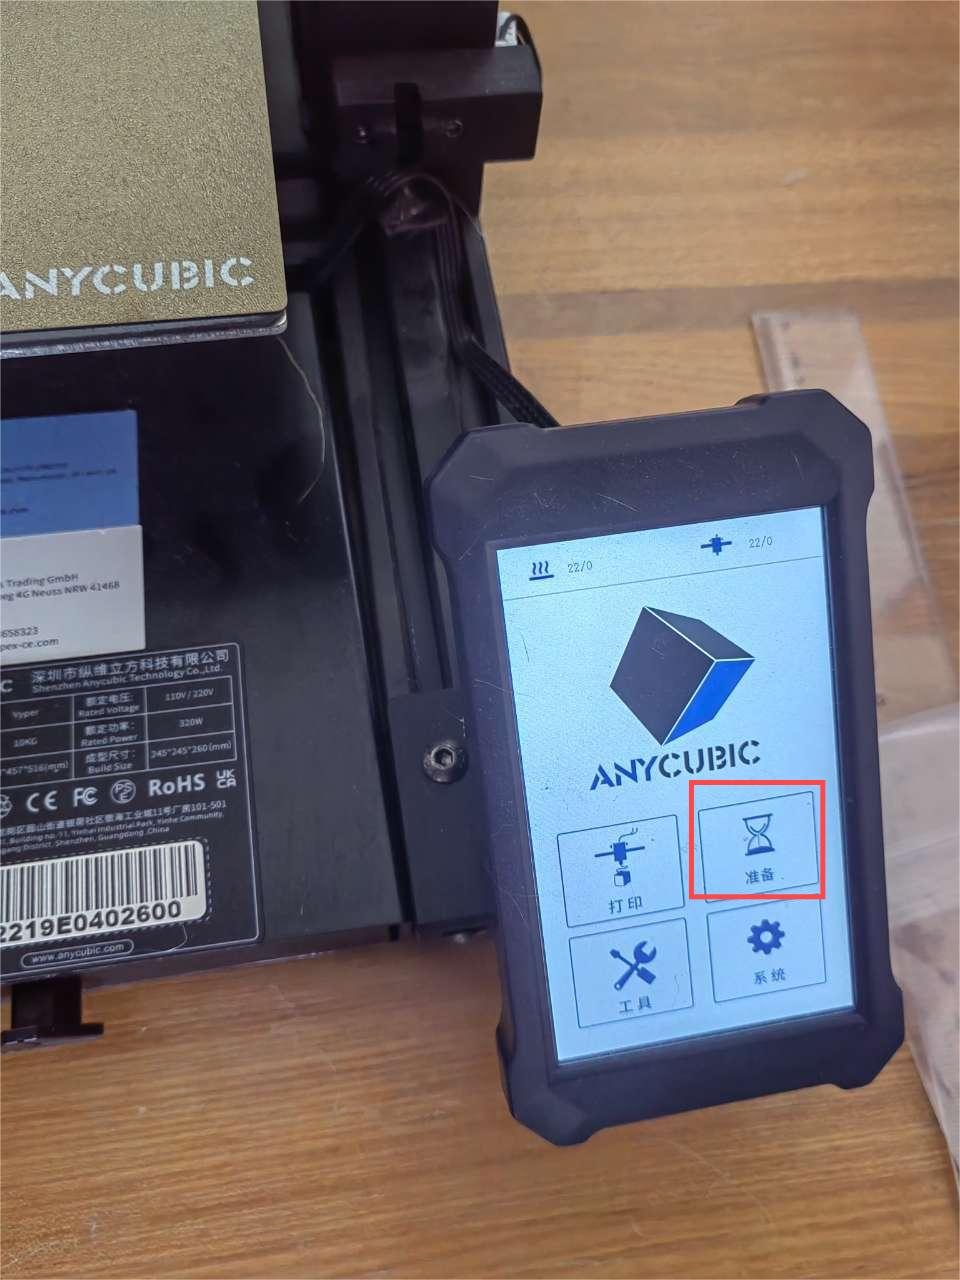
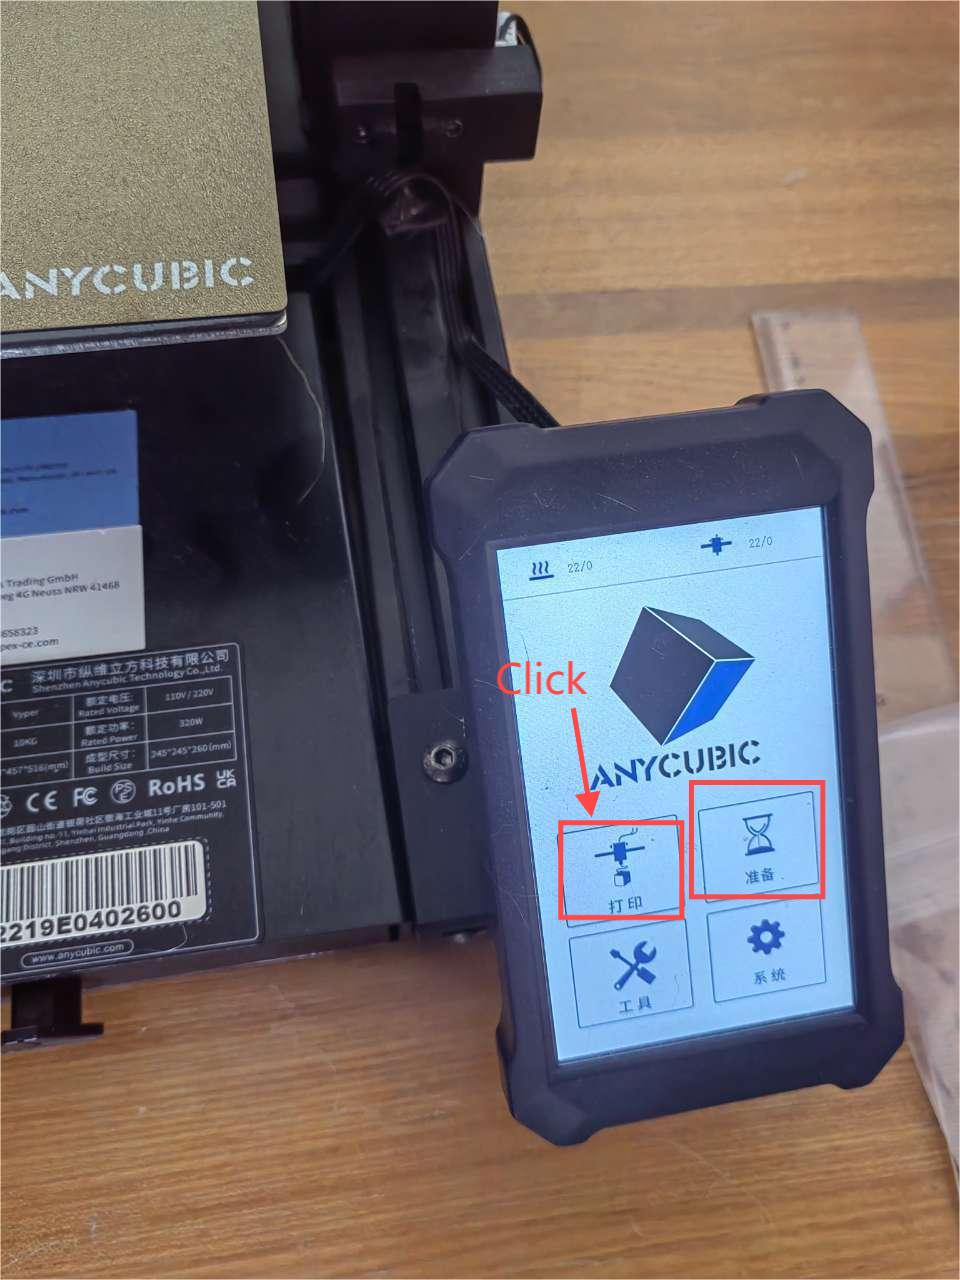
material部分更改

Changed region(s): [[0.5, 0.5, 0.7188, 0.7188]]

diff --git a/dailyhomework/ma/ma.html b/dailyhomework/ma/ma.html
@@ -91,16 +91,28 @@
     <p>Magnesium and its alloys are widely applied in the following areas:</p>
     <p>1-Aerospace: Magnesium alloys are used in the construction of aircraft fuselages, engine 
     <br>parts, and more due to their lightweight and high-strength properties.</p>
+    <p><b>Examples:</b>
+    <br>1. The hull of the spacecraft may require high strength and lightweight, so magnesium and aluminum alloys with 
+    <br>high aluminum content will be selected:
+    <br>Magnesium aluminum alloy (Al-Mg) : In this alloy, the content of magnesium is usually 30% to 45%, the 
+    <br>content of aluminum is 10% to 25%, and the rest is other elements, such as silicon, copper, iron, etc.
+    <br>2. The internal structure of the spacecraft may require high strength and good thermal conductivity, and 
+    <br>magnesium copper alloys with higher copper content will be selected:
+    <br>Magnesium copper alloy (Cu-Mg) : In this alloy, the content of magnesium is 50% to 65%, and the content of 
+    <br>copper is 10% to 25%.</p>
     <img src="./ma-1/ma-1-4.PNG">
-    <p>2-Automotive Industry: Magnesium alloys are used in automotive components such as body 
-    <br>structures, wheels, and engine parts to reduce vehicle weight.</p>
-    <img src="./ma-1/ma-1-5.PNG">
-    <p>3-Consumer Electronics: Magnesium alloys are used in the manufacture of casings for laptops, 
-    <br>mobile phones, and other portable electronic devices because of their lightness and good 
-    <br>heat dissipation properties.</p>
-    <img src="./ma-1/ma-1-6.PNG">
-    <p>4-Medical Devices: Magnesium alloys, due to their biocompatibility and degradability, are used 
+    <p>2-Medical Devices: Magnesium alloys, due to their biocompatibility and degradability, are used 
     <br>in the manufacture of certain medical devices and implants.</p>
+    <p><b>Theory:</b>
+    <b>1. Biocompatibility: </b>Biocompatible magnesium alloys remain chemically stable within the 
+    <br>human body without triggering an immune response and are not absorbed by tissues.
+    <br><b>2. Degradation Mechanism:</b>When biocompatible magnesium alloys reach a certain age or are 
+    <br>subjected to specific stimuli (e.g., X-rays, heat), they undergo chemical reactions and gradual 
+    <br>decomposition into smaller molecules that can be digested by the human body.
+    <br><b>3. Stability:</b>Over time, biocompatible magnesium alloys lose hardness and become softer, allowing 
+    <br>them to dissolve readily through the circulation system and not cause tissue compression.
+    <br><b>4. Regeneration: </b>Once absorbed, biocompatible magnesium alloys can regenerate through the body's 
+    <br>own renewal process, growing into new bones or tissues.</p>
     <img src="./ma-1/ma-1-7.PNG">
 
     <h4>1.4 Advantages</h4>
@@ -160,6 +172,7 @@
     <h4>2.3 Applications</h4>
     <p>1-Mechanical Industry: Used for manufacturing large products that are difficult to injection mold, such as 
     <br>large gears, large valve seats, large worm wheels, and large bushings and bearings .</p>
+
     <img src="./ma-1/ma-1-10.PNG">
     <p>2-Automotive Manufacturing: Used in the production of automotive parts, including gears, bearings, impellers, 
     <br>crankshafts, instrument panels, drive shafts, valves, blades, threaded rods, high-pressure gaskets, screws, 
@@ -410,33 +423,34 @@
 
     <section id="subsection3-2"><h3>3-2 MC nylon</h3>
     <h4>1-Post-processing heat treatment: </h4>
-    <p>nylon is a thermoplastic, after processing can be heat treated, by controlling the temperature and time to adjust its performance, 
-    <br>such as improving strength and wear resistance.</p>
-    <img src="./ma-3/ma-3-5.webp">
+    <p>nylon is a thermoplastic, after processing can be heat treated, by controlling the temperature and time to 
+    <br>adjust its performance, such as improving strength and wear resistance.</p>
+    <img src="./ma-3/ma-3-5.jpg">
     <h4>2-Surface coating: </h4>
-    <p>The surface of nylon can be coated to improve its surface properties, such as increasing wear resistance and chemical erosion 
-    <br>resistance.</p>
+    <p>The surface of nylon can be coated to improve its surface properties, such as increasing wear resistance 
+    <br>and chemical erosion resistance.</p>
     <img src="./ma-3/ma-3-6.webp">
     <h4>3-Reinforcement material filling: </h4>
-    <p>By adding fillers (such as glass fiber, carbon fiber, etc.) to MC nylon, it can enhance its mechanical properties and wear 
-    <br>resistance.</p>
+    <p>By adding fillers (such as glass fiber, carbon fiber, etc.) to MC nylon, it can enhance its mechanical 
+    <br>properties and wear resistance.</p>
     <img src="./ma-3/ma-3-7.jpg">
     <h4>Polishing: </h4>
     <p>Polishing nylon products can improve their appearance and surface quality.</p>
     <img src="./ma-3/ma-3-8.png">
 
     <section id="subsection3-3"><h3>3-3 Wood</h3>
-    <h4>1-Coating protection: </h4>
-    <p>The surface of the wood can be coated to provide an additional layer of protection against moisture erosion, insect damage and 
-    <br>sun exposure.</p>
-    <img src="./ma-3/ma-3-9.jpg">
-    <img src="./ma-3/ma-3-10.jpeg">
-    <h4>2-Dyeing and coloring: </h4>
-    <p>Dyeing and coloring can change the appearance of wood, making it more beautiful, and certain colorants also have a protective effect.</p>
-    <img src="./ma-3/ma-3-11.jpg">
-    <h4>3-Surface treatment: </h4>
+    <h4>1-Surface treatment: </h4>
     <p>The wood can be sanded or polished to make its surface smoother and reduce roughness and burrs.</p>
     <img src="./ma-3/ma-3-12.webp">
+    <h4>2-Coating protection: </h4>
+    <p>The surface of the wood can be coated to provide an additional layer of protection against moisture erosion, 
+    <br>insect damage and sun exposure.</p>
+    <img src="./ma-3/ma-3-9.jpg">
+    <img src="./ma-3/ma-3-10.jpeg">
+    <h4>3-Dyeing and coloring: </h4>
+    <p>Dyeing and coloring can change the appearance of wood, making it more beautiful, and certain colorants also 
+    <br>have a protective effect.</p>
+    <img src="./ma-3/ma-3-11.jpg">
     <h4>4-Anti-corrosion treatment: </h4>
     <p>Anti-corrosion treatment of wood can extend its service life and make it more durable.</p>
     <img src="./ma-3/ma-3-13.webp">
@@ -449,39 +463,41 @@
     <img src="./ma-4/ma-4-1.jpg">
     <h4>Polyester fiber</h4>
     <img src="./ma-4/ma-4-2.jpg">
-    <p>Polyester fiber is a synthetic fiber made from polyethylene terephthalate (PET), made by melt spinning or solution spinning processes.</p>
+    <p>Polyester fiber is a synthetic fiber made from polyethylene terephthalate (PET), made by melt spinning or 
+    <br>solution spinning processes.</p>
     <h5>1-Features:</h5>
     <p>1. High strength, wear resistance (with high tensile strength) 
     <br>2. Good chemical stability (with good resistance to acid and alkali) 
     <br>3. Light resistance (strong resistance to sunlight and ultraviolet rays, not easy to decline in performance) 
     <br>4. Fast drying (water evaporation speed is fast)Use in the project:</p>
     <h5>2-Use in the project:</h5>
-    <p>Polyester fiber, as the main material of this bear doll, gives it a soft and comfortable touch, but also shows excellent performance in 
-    <br>terms of durability. This high-quality synthetic fiber, after a fine textile process, forms the doll's delicate and elastic outer fabric. 
-    <br>Whether it is hugging or everyday friction, polyester retains its original shape and texture and is not easily deformed or broken.</p>
-    <p>In addition, the internal filling of polyester fiber is also made of this material. Soft and environmentally friendly not only increases 
-    <br>the elasticity of the doll, making the bear doll more fit to the body when hugging, bringing warmth and security. At the same time, it 
-    <br>also ensures the safety of toys, so that children have no worries during the play process.</p>
+    <p>Polyester fiber, as the main material of this bear doll, gives it a soft and comfortable touch, but also shows 
+    <br>excellent performance in terms of durability. This high-quality synthetic fiber, after a fine textile process, 
+    <br>forms the doll's delicate and elastic outer fabric. Whether it is hugging or everyday friction, polyester retains 
+    <br>its original shape and texture and is not easily deformed or broken.</p>
+    <p>In addition, the internal filling of polyester fiber is also made of this material. Soft and environmentally 
+    <br>friendly not only increases the elasticity of the doll, making the bear doll more fit to the body when hugging, 
+    <br>bringing warmth and security. At the same time, it also ensures the safety of toys, so that children have no 
+    <br>worries during the play process.</p>
     
 
     <section id="subsection4-2"><h3>4-2 Airbag materials</h3>
     <img src="./ma-4/ma-4-3.jpg">
     <h4>4.2.1. Nylon</h4>
-    <p>Nylon is a synthetic polymer material, usually made from adipic acid and hexanediamine by condensation reaction. This fiber is known for 
-    <br>its unique properties and a wide range of applications.</p>
-    <img src="./ma-4/ma-4-4.jpg">
+    <p>Nylon is a synthetic polymer material, usually made from adipic acid and hexanediamine by condensation reaction. 
+    <br>This fiber is known for its unique properties and a wide range of applications.</p>
     <h5>1-Features:</h5>
     <p>1. Good elasticity and recovery (quickly restored to the original state after stretching, not easy to deform) 
     <br>2. High strength (can withstand long-term use and friction, not easy to damage) 
     <br>3. Fast drying (can dry quickly, keep dry)</p>
     <h5>2-Use in the project:</h5>
-    <p>Nylon is one of the airbag materials, it is known for excellent strength, wear resistance and elasticity, when the airbag is filled with air, 
-    <br>nylon is able to evenly withstand and distribute pressure, ensuring that the airbag maintains a stable form while expanding, thus providing 
-    <br>reliable support and comfort.
-    <br>The durability of the nylon material means that the air bag can withstand frequent compression and expansion cycles and still maintain good 
-    <br>performance, which is very critical for long-term use and frequent cuddling cubs.
-    <br>The high tear strength of nylon also ensures that the airbag is not easily ruptured even when accidentally pulled or compressed, thus ensuring 
-    <br>the safety of the user.</p>
+    <p>Nylon is one of the airbag materials, it is known for excellent strength, wear resistance and elasticity, when 
+    <br>the airbag is filled with air, nylon is able to evenly withstand and distribute pressure, ensuring that the 
+    <br>airbag maintains a stable form while expanding, thus providing reliable support and comfort.
+    <br>The durability of the nylon material means that the air bag can withstand frequent compression and expansion 
+    <br>cycles and still maintain good performance, which is very critical for long-term use and frequent cuddling cubs.
+    <br>The high tear strength of nylon also ensures that the airbag is not easily ruptured even when accidentally pulled 
+    <br>or compressed, thus ensuring the safety of the user.</p>
     <h4>4.2.2 Polyethylene</h4>
     <P>It is a thermoplastic resin prepared by polymerization of ethylene monomer (C2H4).</P>
     <img src="./ma-4/ma-4-5.jpg">
@@ -491,24 +507,25 @@
     <br>3. Waterproof (impervious) 
     <br>4. Plasticity (more convenient processing, can be into various shapes)</P>
     <h5>2-Use in the project:</h5>
-    <P>One of the polyethylene air bag materials, it is known for its excellent chemical resistance, water resistance and low density characteristics, 
-    <br>in the application of the air bag, the low density of polyethylene helps to reduce the weight of the whole bear, making it easier to hug.
-    <br>The polyethylene air bag also has good elasticity and flexibility, and can maintain a stable shape during the charging and venting process, 
-    <br>providing users with even support and a comfortable hug experience.</P>
+    <P>One of the polyethylene air bag materials, it is known for its excellent chemical resistance, water resistance and 
+    <br>low density characteristics, in the application of the air bag, the low density of polyethylene helps to reduce 
+    <br>the weight of the whole bear, making it easier to hug.The polyethylene air bag also has good elasticity and flexibility, 
+    <br>and can maintain a stable shape during the charging and venting process, providing users with even support and a 
+    <br>comfortable hug experience.</P>
     <h4>4.2.3 Silicone</h4>
-    <p>Silicone is a synthetic polymer material consisting of silicon, oxygen, carbon, and hydrogen, usually in polymer chains formed by repeated 
-    <br>connections of siloxane units.</p>
+    <p>Silicone is a synthetic polymer material consisting of silicon, oxygen, carbon, and hydrogen, usually in polymer chains 
+    <br>formed by repeated connections of siloxane units.</p>
     <img src="./ma-4/ma-4-6.jpg">
     <h5>1-Features:</h5>
     <p>1. Strong temperature resistance (able to maintain stability in a wide temperature range) 
     <br>2. Soft and elastic (with certain ductility and strength)</p>
     <h5>2-Use in the project:</h5>
-    <p>Silicone is used as the covering material of the outer layer of the air bag to play a multiple protective role. Silicone has excellent puncture 
-    <br>resistance and can effectively prevent sharp objects from penetrating the air bag, thereby protecting the internal structure from damage.
-    <br>The explosion-proof properties of silica gel have also been further improved. In extreme cases, if the airbag accidentally ruptures, the silicone 
-    <br>outer layer can reduce the potential for injury.
-    <br>At the same time, the temperature resistance of silica gel ensures that under different temperature conditions, the air bag can maintain stable 
-    <br>performance, and will not be deformed or degraded due to temperature changes.</p>
+    <p>Silicone is used as the covering material of the outer layer of the air bag to play a multiple protective role. Silicone 
+    <br>has excellent puncture resistance and can effectively prevent sharp objects from penetrating the air bag, thereby protecting 
+    <br>the internal structure from damage.The explosion-proof properties of silica gel have also been further improved. In extreme 
+    <br>cases, if the airbag accidentally ruptures, the silicone outer layer can reduce the potential for injury.
+    <br>At the same time, the temperature resistance of silica gel ensures that under different temperature conditions, the air 
+    <br>bag can maintain stable performance, and will not be deformed or degraded due to temperature changes.</p>
 
     <section id="subsection4-3"><h3>4-3 Circuit storage materials</h3>
     <h4>4.3.1. Acrylic</h4>
@@ -519,12 +536,12 @@
     <br>2. Processability (easy to cut) 
     <br>3. insulation
     <h5>2-Use in the project:</h5>
-    <P>acrylic as the packaging material of the bear built-in circuit, not only can ensure the safety of the circuit, but also prevent the damage of 
-    <br>external factors to the circuit.
+    <P>acrylic as the packaging material of the bear built-in circuit, not only can ensure the safety of the circuit, but also 
+    <br>prevent the damage of external factors to the circuit.
     <br>Acrylic has good mechanical strength and can resist external impact and pressure damage to the circuit to a certain extent.
-    <br>The acrylic can be easily cut to fit the space inside the bear. The acrylic sheet can be flexibly customized according to the size of the circuit.
-    <br>The heat resistance of acrylic also provides a strong guarantee for the normal operation of the circuit. The heat generated when the electronic 
-    <br>equipment is working will be conducted to the acrylic plate, but because of its good heat resistance, acrylic can withstand these heat without 
-    <br>deformation or melting.</P>
+    <br>The acrylic can be easily cut to fit the space inside the bear. The acrylic sheet can be flexibly customized according 
+    <br>to the size of the circuit.The heat resistance of acrylic also provides a strong guarantee for the normal operation of the 
+    <br>circuit. The heat generated when the electronic equipment is working will be conducted to the acrylic plate, but because of 
+    <br>its good heat resistance, acrylic can withstand these heat without deformation or melting.</P>
 
 </body>

diff --git a/dailyhomework/3d/3d.html b/dailyhomework/3d/3d.html
@@ -44,7 +44,8 @@
           <a href="#section4"><h5>04 Postprocess the surface</h5></a>
           <a href="#section5"><h5>05 Read gcode</h5></a>
           <a href="#subsection5-1"><p>5-1 Meaning analysis</p></a>
-          <a href="#subsection5-2"><p>5-2 Outline draught</p></a>
+          <a href="#subsection5-2"><p>5-2 How to draw a gcode file</p></a>
+          <a href="#subsection5-3"><p>5-3 Outline draught</p></a>
 
 
 
@@ -163,22 +164,15 @@
     <h4>3-1 Save the file to the memory card, and then insert the memory card into 
     <br>the 3D printer</h4>
     <img src="./3d-3/3d-4-1.jpg">
-    <h4>3-2 Tap Ready on the control screen</h4>
+    <h4>3-2 Click Print, find the file you want to print, click Start printing</h4>
     <img src="./3d-3/3d-4-2.jpg">
-    <h4>3-3 Click to warm up</h4>
-    <img src="./3d-3/3d-4-3.jpg">
-    <h4>3-4 Through the display we can see that the temperature of the base plate 
-    <br>and the nozzle is rising</h4>
-    <img src="./3d-3/3d-4-4.jpg">
-    <h4>3-5 Go back to the main screen, click Print, find the file you want to 
-    <br>print, click Start printing</h4>
     <img src="./3d-3/3d-4-5.jpg">
-    <h4>3-6 When the base plate and nozzle are heated, the 3D printer begins to 
+    <h4>3-3 When the base plate and nozzle are heated, the 3D printer begins to 
     <br>print, and we can see the printing progress on the display screen</h4>
     <img src="./3d-3/3d-4-6.jpg">
-    <h4>3-7 Print complete</h4>
+    <h4>3-4 Print complete</h4>
     <img src="./3d-3/3d-4-7.jpg">
-    <h4>3-8 The final print is complete and we can see the finished product on 
+    <h4>3-5 The final print is complete and we can see the finished product on 
     <br>the backboard</h4>
     <img src="./3d-3/3d-4-8.jpg">
 
@@ -238,7 +232,33 @@
     <p><b>Y105.287：</b>This is another coordinate parameter that represents the moving endpoint position on the Y-axis.</p>
     <P><b>E0.01536:</b>This is a movement parameter of the extrusion axis (E axis), which represents the amount of 
     <br>extruded material when performing the cut.</P>
-    <section id="subsection5-2"><h3>5-2 Outline draught</h3>
+    <section id="subsection5-2"><h3>5-2 How to draw a gcode file</h3>
+    <h5>The method is to install a <b>nozzleboss</b> plugin in <b>blender</b> software, and you can directly import the gcode 
+    <br>file to generate the corresponding image.</h5>
+    <a href="https://github.com/Heinz-Loepmeier/nozzleboss" class="gw">related links</a>
+    <h4>Step 1:</h4>
+    <p>Open github and search for the plugin name in the search bar.</p>
+    <img src="./3d-5/3d-5-8.PNG">
+    <h4>Step 2:</h4>
+    <p>Select and click the first link and go to the corresponding library.</p>
+    <img src="./3d-5/3d-5-9.PNG">
+    <h4>Step 3:</h4>
+    <p>Click <b>code</b> and download the zip file.</p>
+    <img src="./3d-5/3d-5-10.PNG">
+    <img src="./3d-5/3d-5-11.PNG">
+    <h4>Step 4:</h4>
+    <p>Open blender and install the plugin in Preferences under the Editing tool.</p>
+    <img src="./3d-5/3d-5-12.jpg">
+    <img src="./3d-5/3d-5-13.PNG">
+    <img src="./3d-5/3d-5-14.PNG">
+    <h4>Step 5:</h4>
+    <p>Once the plug-in is installed, it is ready to use. Click Import G-code, you can import the corresponding file 
+    <br>to generate the image.</p>
+    <img src="./3d-5/3d-5-15.PNG">
+    <img src="./3d-5/3d-5-16.PNG">
+    <img src="./3d-5/3d-5-17.PNG">
+
+    <section id="subsection5-3"><h3>5-3 Outline draught</h3>
     <h4>Display cover</h4>
     <p>WALL-OUTER</p>
     <img src="./3d-5/3d-5-2.PNG">
